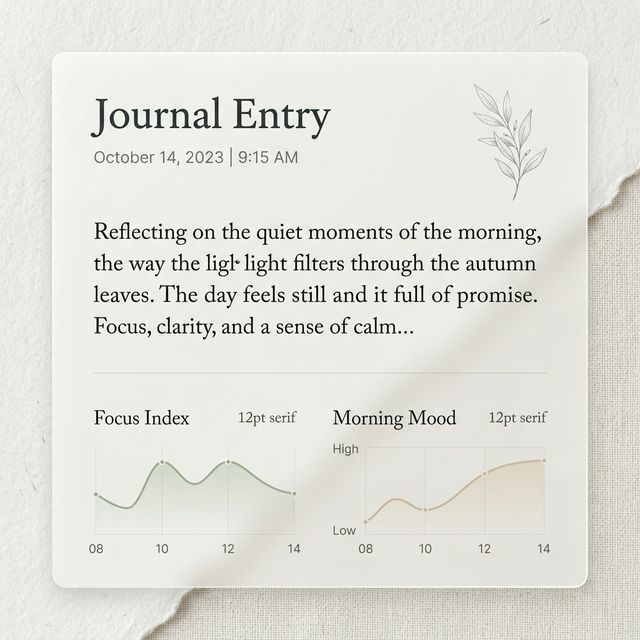
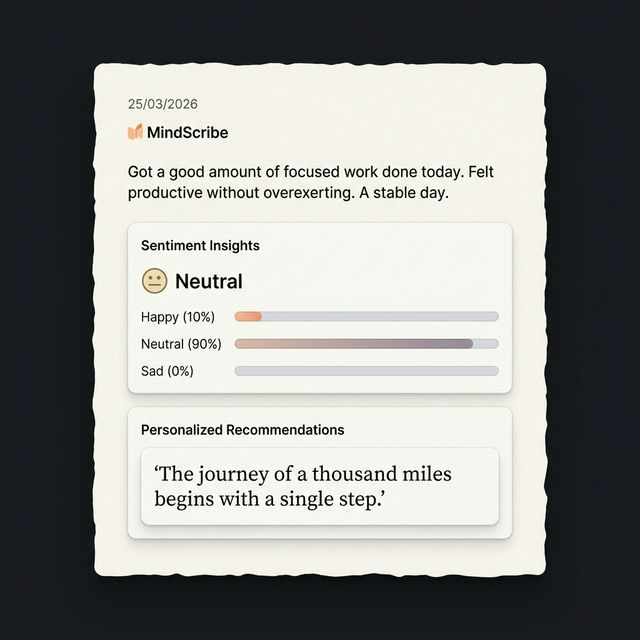
Landing page final

diff --git a/app/components/hero.tsx b/app/components/hero.tsx
@@ -62,7 +62,7 @@ export default function Hero() {
               className="text-5xl md:text-7xl lg:text-8xl font-medium tracking-tight mb-8 text-transparent bg-clip-text bg-gradient-to-b from-white via-white to-neutral-500"
             >
               Journaling, <br />
-              <span className="italic font-serif text-white">Reimagined.</span>
+              <span className="font-serif text-white">Reimagined.</span>
             </motion.h1>
 
             <motion.p
@@ -82,10 +82,12 @@ export default function Hero() {
               transition={{ duration: 0.6, delay: 0.3 }}
               className="flex flex-col sm:flex-row items-center gap-4"
             >
-              <button className="px-8 py-4 rounded-full bg-orange-600 hover:bg-orange-500 text-white font-medium transition-all hover:scale-105 active:scale-95 shadow-lg shadow-orange-900/20 flex items-center gap-2 group">
-                Get Started Free
-                <ArrowRight className="w-4 h-4 group-hover:translate-x-1 transition-transform" />
-              </button>
+              <Link href="/auth/signUp">
+                <button className="px-8 py-4 rounded-full bg-orange-600 hover:bg-orange-500 text-white font-medium transition-all hover:scale-105 active:scale-95 shadow-lg shadow-orange-900/20 flex items-center gap-2 group">
+                  Get Started Free
+                  <ArrowRight className="w-4 h-4 group-hover:translate-x-1 transition-transform" />
+                </button>
+              </Link>
               <button className="px-8 py-4 rounded-full bg-transparent hover:bg-white/5 text-white font-medium transition-all border border-white/10 hover:border-white/20 flex items-center gap-2">
                 View Demo
               </button>
@@ -96,10 +98,10 @@ export default function Hero() {
             initial={{ opacity: 0, x: 20 }}
             animate={{ opacity: 1, x: 0 }}
             transition={{ duration: 0.8, delay: 0.4 }}
-            className="flex-1 w-full max-w-[500px] lg:max-w-none"
+            className="flex-1 w-full max-w-[450px]"
           >
             <CardContainer className="inter-var" containerClassName="py-12 lg:py-0">
-              <CardBody className="bg-white/5 relative group/card dark:hover:shadow-2xl dark:hover:shadow-orange-500/[0.1] dark:bg-neutral-900/50 dark:border-white/[0.1] border-black/[0.1] w-full h-auto rounded-3xl p-6 border backdrop-blur-sm transition-all">
+              <CardBody className="bg-white/5 relative group/card dark:hover:shadow-2xl dark:hover:shadow-orange-500/[0.1] dark:bg-neutral-900/50 dark:border-white/[0.1] border-black/[0.1] w-full h-auto rounded-2xl p-4 border backdrop-blur-sm transition-all">
                 <CardItem
                   translateZ="50"
                   className="text-xl font-bold text-white mb-2"
@@ -113,7 +115,7 @@ export default function Hero() {
                 >
                   Gently track your emotional landscape with subtle AI analysis.
                 </CardItem>
-                <CardItem translateZ="100" className="w-full mt-6">
+                <CardItem translateZ="100" className="w-full mt-4">
                   <img
                     src="/images/journal-preview.png"
                     height="1000"
@@ -122,22 +124,6 @@ export default function Hero() {
                     alt="AI sentiment dashboard preview"
                   />
                 </CardItem>
-                <div className="flex justify-between items-center mt-12">
-                  <CardItem
-                    translateZ={20}
-                    as="button"
-                    className="px-4 py-2 rounded-xl text-xs font-medium text-white bg-white/10 hover:bg-white/20 transition-colors"
-                  >
-                    View Reflection
-                  </CardItem>
-                  <CardItem
-                    translateZ={60}
-                    as="div"
-                    className="px-4 py-2 rounded-xl bg-white/10 text-neutral-300 text-xs font-medium backdrop-blur-md"
-                  >
-                    Calm & Focused
-                  </CardItem>
-                </div>
               </CardBody>
             </CardContainer>
           </motion.div>
@@ -164,13 +150,13 @@ export default function Hero() {
             <FeatureCard
               icon={LineChart}
               title="Mood Tracking"
-              description="Visualize your mood patterns with beautiful, interactive charts and weekly reports."
+              description="Track your mood patterns and maintain the streak for a better mental health"
               delay={0.2}
             />
             <FeatureCard
               icon={Lock}
               title="Private & Secure"
-              description="Your thoughts are yours alone. End-to-end encryption ensures your journal stays private."
+              description="Your thoughts are yours alone. Share your day without any hesitation"
               delay={0.3}
             />
           </div>
@@ -188,17 +174,18 @@ export default function Hero() {
             <div className="absolute inset-0 bg-gradient-to-t from-neutral-900 via-neutral-900/80 to-transparent" />
 
             <div className="relative z-10 max-w-2xl mx-auto">
-              <h2 className="text-4xl md:text-5xl font-medium mb-6">
+              <h2 className="text-xl md:text-5xl font-medium mb-6">
                 Start your journey to better mental clarity.
               </h2>
-              <p className="text-neutral-400 mb-10 text-lg">
-                Join thousands of users who have transformed their daily
-                journaling habit into a tool for growth.
+              <p className="text-neutral-400 mb-10 text-sm md:text-lg">
+                Join us on this journey to a better you and transform your life.
               </p>
 
-              <button className="px-10 py-5 rounded-full bg-white text-black font-medium text-lg transition-all hover:bg-neutral-200 hover:scale-105 active:scale-95 shadow-xl shadow-white/10 inline-flex items-center gap-2">
-                Download for iOS & Android
-              </button>
+              <Link href="/auth/signUp">
+                <button className="px-10 py-5 rounded-full bg-white text-black font-medium text-lg transition-all hover:bg-neutral-200 hover:scale-105 active:scale-95 shadow-xl shadow-white/10 inline-flex items-center gap-2">
+                  Get Started Now
+                </button>
+              </Link>
             </div>
           </motion.div>
         </section>

diff --git a/app/components/header.tsx b/app/components/header.tsx
@@ -11,8 +11,7 @@ export default function Header() {
 
   const navLinks = [
     { name: "Features", href: "/#features" },
-    { name: "How it works", href: "/#demo" },
-    { name: "Pricing", href: "/#pricing" },
+    { name: "How it works", href: "/#demo" }
   ];
 
   return (
